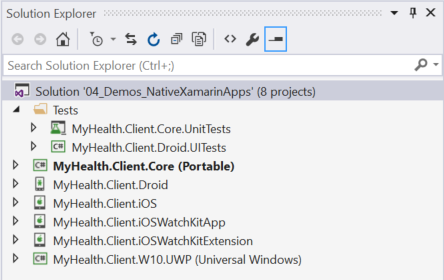
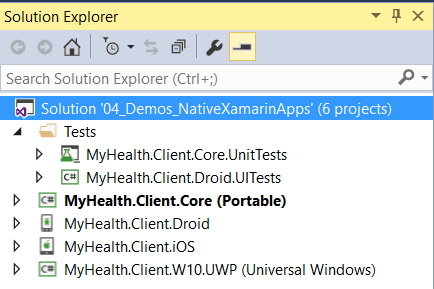
Updating Module 2 to flow from Module 1 without extra iOS projects

diff --git a/Module2-CI/README.md b/Module2-CI/README.md
@@ -11,14 +11,18 @@ Continuous Integration (CI) is a foundational pillar of DevOps. Once set up, eac
 In [Module 1](../Module1-Xamarin), you covered developing cross platform mobile apps using [Xamarin](https://xamarin.com/). You learned about the project structure and **Portable Class Libraries** and saw how to unit test the core of the application. You then created a [Visual Studio Team Services](https://www.visualstudio.com/products/visual-studio-team-services-vs.aspx) (VSTS) Team Project and committed the code into it.
 
 ### A Note About HealthClinic.Biz ###
-The solution that you will use for this workshop is from [HealthClinic.biz](https://github.com/microsoft/healthclinic.biz). This is a sample repo that Microsoft created. The code has been modified slightly for this workshop, so if you go to the GitHub repo you may find differences. The mobile apps in the project connect to two services that are hosted in Azure - an Azure Mobile App and an Azure Web App. The Azure apps have been modified for this workshop so that they are _read only_. Any add, update or delete method will return a successful response but will not modify any data in the backing database. If you wish to host these services yourself after the workshop, then please refer to the [Deployment to Azure](https://github.com/Microsoft/HealthClinic.biz/wiki/Deployment-to-Azure) page in the wiki.
+The solution that you will use for this workshop is from [HealthClinic.biz](https://github.com/microsoft/healthclinic.biz). This is a sample from Microsoft. The code has
+been modified slightly for this workshop, so you may find differences. The mobile apps in the project connect to two services that are hosted in Azure - an
+Azure Mobile App service and an Azure Web App. The Azure apps have been modified for this workshop so that they are _read only_. Any add, update or delete method will return a successful
+response but will not modify any data in the database. If you wish to host these services yourself after the workshop, then please refer to the
+[Deployment to Azure](https://github.com/Microsoft/HealthClinic.biz/wiki/Deployment-to-Azure) page in the wiki.
 
 <a name="Objectives" ></a>
 ### Objectives ###
 In this module, you will see how to:
 
-- Create a (CI) build for the application in VSTS
-- Analyze test results and code coverage for a build
+- Create a CI build for the application in VSTS
+- Analyze test results for a build
 - Log rich bugs from test failures
 - Trigger a build by committing code to the repo
 - Improve the versioning of the compiled app
@@ -39,12 +43,12 @@ The following is required to complete this module:
 
 Before continuing, you must sign up for a free VSTS account.
 
-> **Note**: You can skip this task if you already have a VSTS account. However, you need to ensure that it is an account in which you are the account owner. In other words, if you create the account yourself, you can skip this step and just sign into your account. However, if some else created the account and added you to the account, then you will need to complete this step. Once you have signed into your existing account, then create a new Team Project as specified in [Module 1](../Module1-Xamarin#task-2---create-a-new-team-project).
-
 <a name="SetupTask1"></a>
 #### Setup Task 1 - Creating a New VSTS Account ####
 
 In this setup task, you will create a new VSTS account.
+
+> **Note**: You can skip this task if you already have a VSTS account. However, you need to ensure that it is an account in which you are the account owner. In other words, if you create the account yourself, you can skip this step and just sign into your account and then go to Setup Task 2. However, if some else created the account and added you to the account, then you will need to complete this step. Once you have signed into your existing account, then create a new Team Project as specified in [Module 1](../Module1-Xamarin#task-2---create-a-new-team-project).
 
 1. Browse to [https://go.microsoft.com/fwlink/?LinkId=307137](https://go.microsoft.com/fwlink/?LinkId=307137). Enter your Microsoft Account credentials.
 
@@ -99,13 +103,49 @@ In this setup task, you will generate a Personal Access Token (PAT) which is req
     ![Copying the PAT](Images/vsts-note-pat.png "Copying the PAT")
 
     _Copying the PAT_
- 
+
 <a name="SetupTask3"></a>
-#### Setup Task 3 - Creating a Xamarin Account ####
+#### Setup Task 3 - Running the Setup Script ####
+
+In order to run the exercises in this module, you will need to set up your environment first. **If you have completed Module 1, skip this section**.
+
+1. Open a **Windows PowerShell** command prompt and `cd` to the Modules **Source** folder.
+
+1. Enter the following command, pressing Y when prompted.
+
+	```powershell
+	Set-ExecutionPolicy Unrestricted -Scope CurrentUser
+    ```
+
+1. And then the following command.
+	```powershell
+    .\Setup.ps1 -vstsUrl https://{youraccount}.visualstudio.com -vstsPat {yourPAT}
+	```
+
+	Where:
+	- `{youraccount}` is the VSTS account name you created earlier
+	- `{yourPAT}` is the VSTS PAT you created earlier.
+
+	> **Note**: For example, the command should look something like:
+	>
+	> ```powershell
+	.\Setup.ps1 -vstsUrl https://colbuildworkshop.visualstudio.com -vstsPat pvzgfvhjh5fhsldfh248sl6ifyidfsdisdfs5vbchdsdffksd9hfk3qooh
+	> ```
+
+> **Note**: If you get prompted for credentials for the origin remote, enter your Microsoft account email as the user, and paste the **VSTS PAT** as the password.
+
+1. Wait until you see a green **Done!** before continuing.
+
+	![The Setup script completed successfully](Images/setup-done.png "The Setup script completed successfully")
+
+	_The Setup script completed successfully_
+
+<a name="SetupTask4"></a>
+#### Setup Task 4 - Creating a Xamarin Account ####
 
 In this task, you will create a Xamarin account.
 
-> **Note**: If you have a Xamarin business license you can use it and skip this task.
+> **Note**: If you have a Xamarin business license or created a trial as part of Module 1 you can use it and skip this task.
 
 1. Navigate to [https://store.xamarin.com/login](https://store.xamarin.com/login "Xamarin Store login"). Click the **Create a new account** link.
 
@@ -121,8 +161,10 @@ In this task, you will create a Xamarin account.
 
 	> **Note**: If you get a "validation failed" error, it probably means that your password is not strong enough. Make sure your password is at least 12 characters long.
 
-<a name="SetupTask4"></a>
-#### Setup Task 4 - Activating your Xamarin Account in Visual Studio ####
+<a name="SetupTask5"></a>
+#### Setup Task 5 - Activating your Xamarin Account in Visual Studio ####
+
+> **Note**: If you already activated your Xamarin trial as part of Module 1 you can skip this task.
 
 In this setup task, you will activate your Xamarin Account in Visual Studio.
 
@@ -150,8 +192,10 @@ In this setup task, you will activate your Xamarin Account in Visual Studio.
 
     _Logged in to Xamarin in Visual Studio_
 
-<a name="SetupTask5"></a>
-#### Setup Task 5 - Activating a Xamarin Business Trial ####
+<a name="SetupTask6"></a>
+#### Setup Task 6 - Activating a Xamarin Business Trial ####
+
+> **Note**: If you already activated your Xamarin trial as part of Module 1 you can skip this task.
 
 In this task, you will open the Xamarin solution for cross-mobile apps for HealthClinic.biz and activate your Xamarin Business trial license.
 
@@ -165,54 +209,27 @@ In this task, you will open the Xamarin solution for cross-mobile apps for Healt
 
     > **Note**: In order to compile Xamarin.iOS projects, you will need a Mac agent running on a Mac machine. Every time you open the solution, you will be prompted to connect to your Mac agent - since you won't have one for this workshop, you can just close the dialog.
 
-1. Click **Build->Build Solution** to build the solution. (You can also use **Ctrl+Shift+B** or **F6** depending on your Visual Studio Settings). The build should fail. The error message will indicate that the project is too large and requires business or higher license.
+1. Click **Build->Build Solution** to build the solution. (You can also use **Ctrl+Shift+B** or **F6** depending on your Visual Studio Settings). Wait until it has finished building by looking at the progress bar at the bottom right of Visual Studio. The build will fail. This is a current issue that is easily fixed by restarting Visual Studio.
 
-    ![Build failure requiring Xamarin Business Edition](Images/vs-xamarin-requires-business.png "Build failure requiring Xamarin Business Edition")
+    ![Build failures](Images/vs-xamarin-build-errors.png "Build failures")
 
-    _Build failure requiring Xamarin Business Edition_
+    _Build failures_
+    
+1. Close Visual Studio and reopen it, then open **04_Demos_NativeXamarinApps.sln** again. Once it loads, right click the solution and select **Clean Solution**, then right click the solution and click **Rebuild Solution**. You will notice that there are now 5 errors, with one saying that you require a business license to build.
 
-1. **Double click the error**. This will launch the Xamarin license dialog. Click on **Begin a Trial** to begin a trial of the Business edition of Xamarin.
+    ![Build failure requiring Xamarin License](Images/vs-xamarin-requires-business.png "Build failure requiring Xamarin License")
+
+1. **Double click the error**. This will launch the Xamarin license dialog. Click **Begin a Trial** to begin a trial of the Business edition of Xamarin.
 
     ![Select Begin a Trial](Images/vs-xamarin-trial.png "Select Begin a Trial")
 
     _Select Begin a Trial_
 
-1. Once the trial has been activated, you will see a confirmation dialog.
+1. Once the trial has been activated, you will see a confirmation dialog, click **Close**.
 
     ![Xamarin Business Trail confirmation](Images/vs-xamarin-trial-success.png "Xamarin Business Trail confirmation")
 
     _Xamarin Business Trail confirmation_
-    
-<a name="SetupTask6"></a>
-#### Setup Task 6 - Running the Setup Script ####
-
-In order to run the exercises in this module, you will need to set up your environment first. **If you have completed Module 1, skip this section**.
-
-1. Open a **Windows PowerShell** command prompt and `cd` to the Modules **Source** folder.
-
-1. Enter the following command.
-
-	```powershell
-	.\Setup.ps1 -vstsUrl https://{youraccount}.visualstudio.com -vstsPat {yourPAT} -xamarinEmail {xamarinEmail} -xamarinPassword {xamarinPassword}
-	```
-
-	where:
-	- `{youraccount}` is the VSTS account name you created earlier
-	- `{yourPAT}` is the VSTS PAT you created earlier.
-	- `{xamarinEmail}` is the email address for your Xamarin account
-	- `{xamarinPassword}` is the password for your Xamarin account
-
-	> **Note**: For example, the command should look something like:
-	>
-	> ```powershell
-	.\Setup.ps1 -vstsUrl https://colbuildworkshop.visualstudio.com -vstsPat pvzgfvhjh5fhsldfh248sl6ifyidfsdisdfs5vbchdsdffksd9hfk3qooh -xamarinEmail myemail@outlook.com -xamarinPassword P@ssw0rd
-	> ```
-
-1. Wait until you see a green **Done!** before continuing.
-
-	![The Setup script completed successfully](Images/setup-done.png "The Setup script completed successfully")
-
-	_The Setup script completed successfully_
 
 ---
 
@@ -221,7 +238,7 @@ In order to run the exercises in this module, you will need to set up your envir
 This module includes the following exercises:
 
 1. [Removing the iOS Projects from the Solution](#Exercise1)
-1. [Creating a Team Build](#Exercise2)
+1. [Creating a Build Definition](#Exercise2)
 1. [Queueing the Build and Fix the Bug](#Exercise3)
 1. [Improving Package Versioning](#Exercise4)
 
@@ -253,7 +270,7 @@ In this task, you will open the Xamarin solution for cross-mobile apps for Healt
 
     > **Note**: In order to compile Xamarin.iOS projects, you will need a Mac agent running on a Mac machine. Every time you open the solution, you will be prompted to connect to your Mac agent - since you won't have one for this workshop, you can just close the dialog.
 
-1. You should see 8 projects in the solution.
+1. You should see 6 projects in the solution.
 
     ![Xamarin Projects in the Solution](Images/vs-solution-explorer.png "Xamarin Projects in the Solution")
 
@@ -286,23 +303,23 @@ In this task, you will open the Xamarin solution for cross-mobile apps for Healt
     _Ignore the InitializeComponent error_
 
 <a name="Ex1Task2"></a>
-#### Task 2 - Removing the iOS Projects from the Solution ####
+#### Task 2 - Removing the iOS Project from the Solution ####
 
-In this task, you will remove the iOS applications from the solution.
+In this task, you will remove the iOS applications from the solution, as we will only automate the build of the Android and UWP apps in this workshop. You can also automate iOS builds by using a [Mac computer or a solution like MacInCloud](http://i1.blogs.msdn.com/b/visualstudioalm/archive/2015/11/18/macincloud-visual-studio-team-services-build-and-improvements-to-ios-build-support.aspx).
 
-> **Note**: If did not complete Module 1, take a few moments to browse the iOS projects before you remove them.
+> **Note**: If you did not complete Module 1, take a few moments to browse the iOS project before you remove them.
 
-1. In order to remove the iOS projects, make sure the solution from the previous task is opened. Then, in **Team Explorer**, right-click each project ending with iOS and click **Remove**.
+1. In order to remove the iOS project, make sure the solution from the previous task is opened in Visual Studio. Then, in **Team Explorer**, right-click MyHealth.Client.iOS and click **Remove**.
 
-    ![Remove the iOS projects from the solution](Images/vs-remove-ios-projects.png "Remove the iOS projects from the solution")
+    ![Remove the iOS project from the solution](Images/vs-remove-ios-projects.png "Remove the iOS project from the solution")
 
-    _Remove the iOS projects from the solution_
+    _Remove the iOS project from the solution_
 
-1. Once the 3 iOS projects are removed, your solution should look like the following.
+1. Once the iOS project are removed, your solution should look like the following.
 
-    ![Solution Structure without iOS projects](Images/vs-project-structure.png "Solution Structure without iOS projects")
+    ![Solution Structure without iOS project](Images/vs-project-structure.png "Solution Structure without iOS project")
 
-    _Solution Structure without iOS projects_
+    _Solution Structure without iOS project_
 
 1. In the **Solution Explorer**, right-click the solution node (the top-most node) and click **Commit**. The only change should be the solution file.
 
@@ -313,16 +330,16 @@ In this task, you will remove the iOS applications from the solution.
     _Commit the Solution changes_
 
 <a name="Exercise2" ></a>
-### Exercise 2: Creating a Team Build ###
+### Exercise 2: Creating a Build Definition ###
 
-In this exercise, you will create a Team Build to compile the solution, run unit tests and package the Android application. In Module 3, you will see how to put this package into a Continuous Deployment pipeline to distribute the app code to users.
+In this exercise, you will create a Build definition to compile the solution, run unit tests and package the Android application. In Module 3, you will see how to put this package into a Continuous Deployment pipeline to distribute the app code to users.
 
 <a name="Ex2Task1"></a>
 #### Task 1 - Configure a Private Build Agent ####
 
 In this task, you will install a private build agent on your local machine.
 
-> **Note**: You could also use the Hosted build agent. The Hosted build agent spins up when a build is triggered, runs the build, and then spins down. Hosted build agents let you build without having to maintain build infrastructure. For this workshop, you need to use a _private_ build agent only because the Xamarin trial license does not work on the Hosted build agent.
+> **Note**: You can also use the Hosted build agent provided by VSTS. The Hosted build agent spins up when a build is triggered, runs the build, and then spins down. Hosted build agents let you build without having to maintain build infrastructure. For this workshop we are using a _private_ build agent because the Xamarin trial license activation does not work on the Hosted build agent.
 
 1. Navigate to the Agent Pools configuration in VSTS
     Log in to the `HealthClinic` team project in VSTS. In the upper right corner, click the **gear** icon to open the admin page:
@@ -347,9 +364,12 @@ In this task, you will install a private build agent on your local machine.
     _Click Download agent_
     
     Enter `c:\buildworkshop` as the destination folder for the download. Make sure that popups are allowed from the site if nothing happens when you click the button.
+    
+    > **Note** If the browser mentions it blocked a popup, select always allow and click the Download agent link again. 
 
 1. Unlock and extract the agent.zip file
-    In the File Explorer, navigate to `c:\buildworkshop'. Right click the **agent.zip** file and click **Properties**. Check the **Unblock** checkbox and click **Apply**.
+
+    In File Explorer, navigate to `c:\buildworkshop'. Right click the **agent.zip** file and click **Properties**. Check the **Unblock** checkbox and click **Apply**.
     
     ![Unblock the agent zip file](Images/vsts-agent-unblock.png "Unblock the agent zip file")
     
@@ -483,7 +503,7 @@ In this task, you will configure the Build tasks.
 
     >**Note**: It is possible to run the UI tests using either [Xamarin Test Cloud](https://xamarin.com/test-cloud) or [Perfecto Mobile](http://www.perfectomobile.com/integrations/continuous-quality-integrated-visual-studio).  These services allow you to run the tests against a myriad of devices, recording results of runs against each device. Perfecto Mobile also provides user conditions testing, private cloud options, and the ability to execute one script (Java or C#) to test desktop and mobile browsers in parallel.  If you click **Add new task** and browse to the **Test** tasks, you will see a Xamarin Test Cloud task. You can install the Perfecto task to your account through the [VSTS Marketplace](https://marketplace.visualstudio.com/items?itemName=Perfecto.PerfectoCQ). For this lab, you will not run tests against either Xamarin Test Cloud or Perfecto’s Continuous Quality Lab, but it is possible to do so.  
 
-1. In the **Test Assembly** parameter, change the word `test` to `unittest`. Check the **Code Coverage Enabled** checkbox. Your task should look as follows:
+1. In the **Test Assembly** parameter, change the word `test` to `unittest`. Your task should look as follows:
 
     ![Configure Test Run](Images/vsts-build-test-run.png "Configure Test Run")
 
@@ -552,7 +572,7 @@ In this task, you will queue a build, and once complete, examine the build repor
 
     _The build log_
 
-1. The build should fail. Looking at the tasks in the left of the log will show you that the **Test Assemblies...** task failed. In Module 1, you have seen that one of the unit tests was failing - the test is failing in the build as well.
+1. After about 3 minutes, the build should fail. Looking at the tasks in the left of the log will show you that the **Test Assemblies...** task failed. In Module 1, you have seen that one of the unit tests was failing - the test is failing in the build as well.
 
 1. In the toolbar, click the build number (this will be of the format `Build yyyymmdd.1`). This is the build number that VSTS assigned to the build when it was queued.
 
@@ -566,9 +586,7 @@ In this task, you will queue a build, and once complete, examine the build repor
 
     _The build report for the failed build_
 
-1. In the graphs on the right, you will see that there is a test failure. You will also see trends showing the difference in failures, pass rate and run duration between this build and previous builds (not too useful at the moment since this is the first build). Under **Code Coverage** you will see the code coverage results.
-
-    >**Note**: If you click **Download Code Coverage results** the results will open in Visual Studio and you will be able to drill down into coverage details.
+1. In the graphs on the right, you will see that there is a test failure. You will also see trends showing the difference in failures, pass rate and run duration between this build and previous builds (not too useful at the moment since this is the first build). 
 
 1. Analyzing the Test Failure. To get more detail about the test failure, click the **Tests** tab at the top of the report.
 
@@ -588,7 +606,7 @@ In this task, you will queue a build, and once complete, examine the build repor
 
 1. Take a moment to view the information that VSTS automatically fills in on the Bug form. The **Repro Steps** field contains the name of the test, the name of the machine on which the test was running, the build that the test was running in, the error message and the stack trace. This is a rich bug - and it required a single button click to create!
 
-    > **Note**: The stack trace shows the line that the `Assert.IsNotNull failed` on (83). Make a note of this for the next exercise.
+    > **Note**: The stack trace shows the line that the `Assert.IsNotNull failed` on (83) of HomeViewModelTests.cs. Make a note of this for the next exercise.
 
 1. You can change any of the fields if you need to - for now, just click **Unassingned** at the top of the form and assign the bug to yourself. Click the **Save** button in the toolbar on the upper right.
 
@@ -615,7 +633,7 @@ In this task, you will open the failing test in Visual Studio and fix the bug.
 
 1. In the Test Window, double-click the **Test_RetrieveAppointments_WhenMoreThanOneAppointments_InitsCorrectly** to open it.
 
-1. In the previous exercise, the stack trace of the failing test showed you that the `Assert.IsNotNull` on line 83 failed. Go to line 83 by pressing **Ctrl+G**, entering **83** and pressing enter. This takes you to the following failing assertion.
+1. In the previous exercise, the stack trace of the failing test showed you that the `Assert.IsNotNull` on line 83 of HomeViewModelTests.cs failed. Go to line 83 by pressing **Ctrl+G**, entering **83** and pressing enter. This takes you to the following failing assertion.
 
     ```csharp
     Assert.IsNotNull(homeviewModel.Appointments);
@@ -862,7 +880,7 @@ In this task, you will install a VSTS extension that contains some custom build 
 By completing this module, you should have:
 
 - Created a Team Build with a CI trigger for the Xamarin solution
-- Analyzed test results and code coverage for the build
+- Analyzed test results for the build
 - Logged a rich bug from test failure
 - Triggered a build by committing the bug fix to the repo
 - Improved the package versioning via a custom build task from the Marketplace

diff --git a/Module3-CD/README.md b/Module3-CD/README.md
@@ -25,10 +25,10 @@ In this module, you will see how to:
 - Track app crashes from HockeyApp 
 
 ### A Note About HealthClinic.Biz ###
-The solution that you will use for this workshop is from [HealthClinic.biz](https://github.com/microsoft/healthclinic.biz). This is a sample repo that Microsoft created. The code has
-been modified slightly for this workshop, so if you go to the GitHub repo you may find differences. The mobile apps in the project connect to two services that are hosted in Azure - an
-Azure Mobile App and an Azure Web App. The Azure apps have been modified for this workshop so that they are _read only_. Any add, update or delete method will return a successful
-response but will not modify any data in the backing database. If you wish to host these services yourself after the workshop, then please refer to the 
+The solution that you will use for this workshop is from [HealthClinic.biz](https://github.com/microsoft/healthclinic.biz). This is a sample from Microsoft. The code has
+been modified slightly for this workshop, so you may find differences. The mobile apps in the project connect to two services that are hosted in Azure - an
+Azure Mobile App service and an Azure Web App. The Azure apps have been modified for this workshop so that they are _read only_. Any add, update or delete method will return a successful
+response but will not modify any data in the database. If you wish to host these services yourself after the workshop, then please refer to the
 [Deployment to Azure](https://github.com/Microsoft/HealthClinic.biz/wiki/Deployment-to-Azure) page in the wiki.
 
 <a name="Prerequisites"></a>
